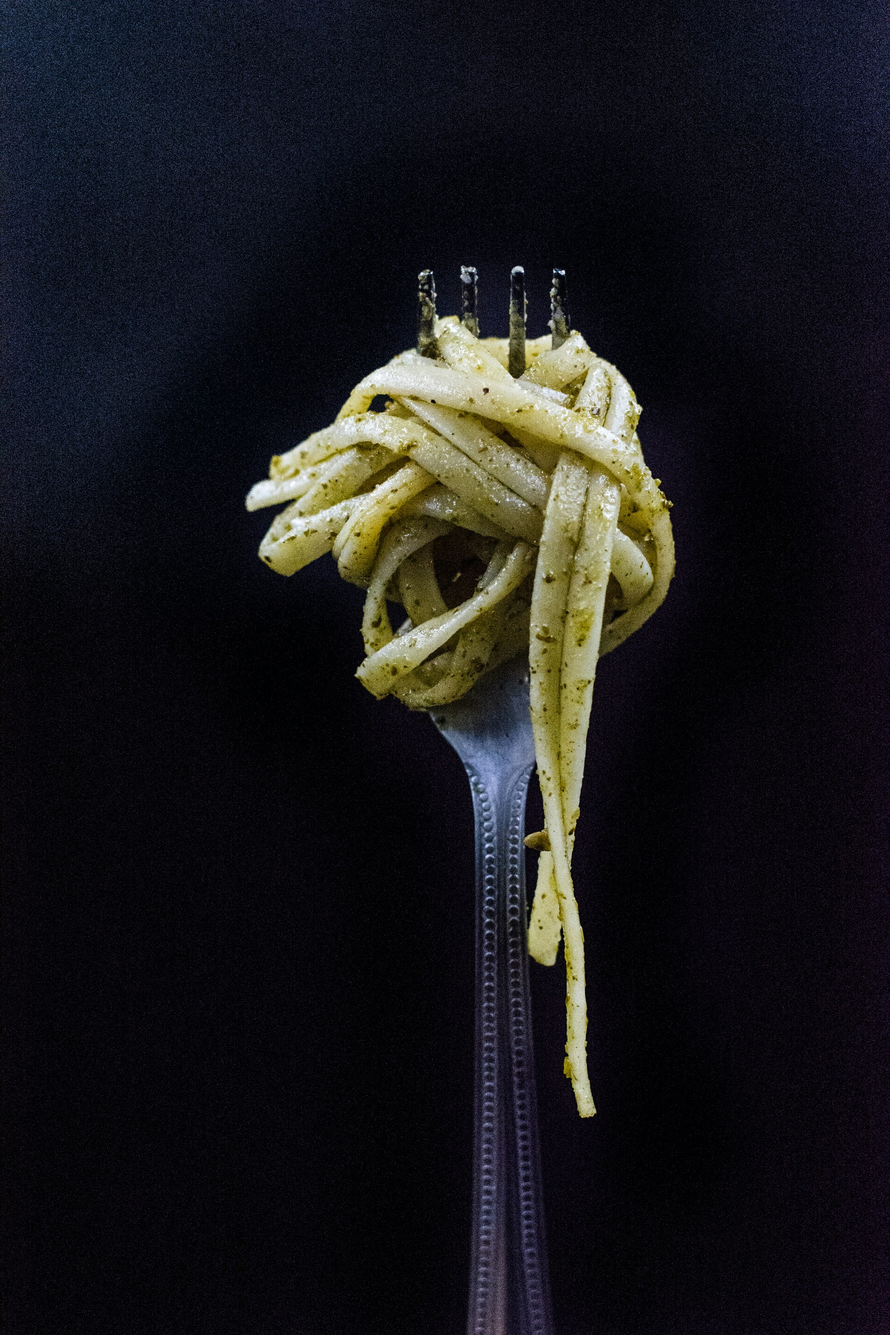
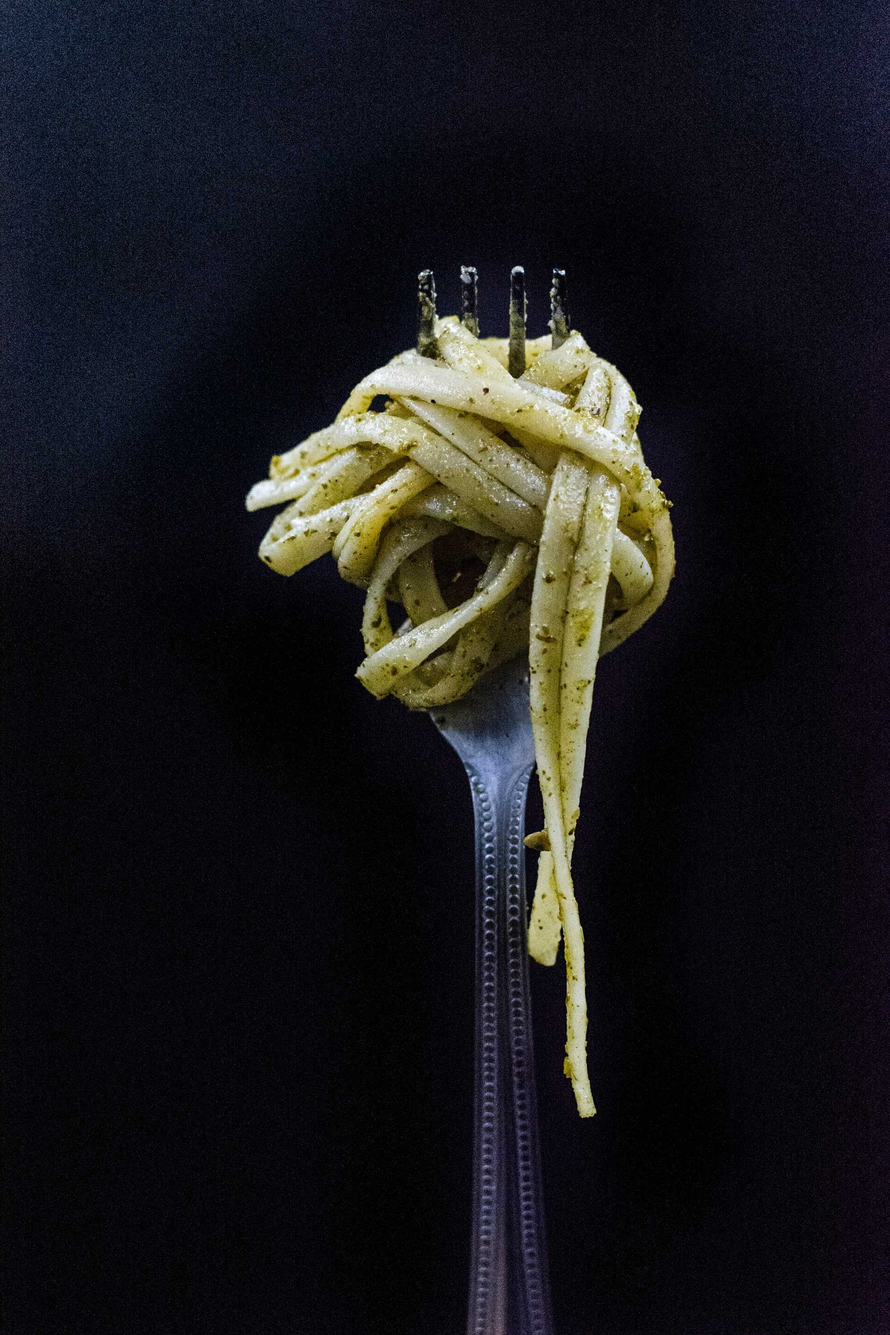
Downgrading INTERNET RECIPE image quality, adding to orkinisms, tappy standard time

Changed region(s): [[0.992, 0.0, 1.0, 0.062], [0.0, 0.0, 0.031, 0.062]]

diff --git a/src/app/projects/tappy-os/orkinisms/data/orkinisms.ts b/src/app/projects/tappy-os/orkinisms/data/orkinisms.ts
@@ -38,7 +38,65 @@ export const orkinisms: Orkinism[] = [
         '[took-A-look]',
         'How Chloe refers to one of the clan (can be any of the siblings).'
     ),
+    new Orkinism(
+        'shinkalink',
+        'noun',
+        '[]',
+        ''
+    ),
+    new Orkinism(
+        'doodle',
+        'noun',
+        '[]',
+        ''
+    ),
+    new Orkinism(
+        'niggie',
+        'noun',
+        '[]',
+        ''
+    ),
+    new Orkinism(
+        'tooksie',
+        'noun',
+        '[]',
+        'Used interghangeably with \'tookie\''
+    ),
+    new Orkinism(
+        'puggles',
+        'noun',
+        '[]',
+        'The pug.'
+    ),
+    new Orkinism(
+        '',
+        'noun',
+        '[]',
+        ''
+    ),
+    new Orkinism(
+        'rookie',
+        'noun',
+        '[]',
+        'A misspelling of tookie/wookie. Also a televsion show.'
+    ),
+    new Orkinism(
+        '👍🏼',
+        'noun',
+        '[]',
+        'Hilton\'s standard emoji response, for the affirmative.'
+    ),
+    new Orkinism(
+        '🖕🏼',
+        'noun',
+        '[]',
+        'Hilton\'s standard emoji response, for the defensive.'
+    ),
 ];
 
 
-//noonkie, tookalook, twinkie, master jack
+// See you on the Christmas tree
+// Shinkies
+// Shinkalink
+// Shinks
+// Drama llama

diff --git a/src/app/projects/tappy-os/orkinisms/orkinisms.component.html b/src/app/projects/tappy-os/orkinisms/orkinisms.component.html
@@ -11,8 +11,8 @@
     </div>
     <br>
     <div class="row">
-      <div class="col-md-3"></div>
-      <div class="col-md-6">
+      <div class="col-md-1"></div>
+      <div class="col-md-10">
         <form>
           <div class="input-group mb-3">
             <input class="form-control form-control-lg" type="text" placeholder="Search Orkinisms..."
@@ -21,14 +21,13 @@
           </div>
           <div class="results">
             @for (orkinism of filteredOrkinismList; track $index) {
-            <p><b>{{ orkinism.word }}</b> | {{ orkinism.type }} | {{ orkinism.phonetic }}</p>
-            <p>{{ orkinism.definition }}</p>
+            <p><b>{{ orkinism.word }}</b> | {{ orkinism.type }} | {{ orkinism.phonetic }} | {{ orkinism.definition }}</p>
             }
           </div>
         </form>
 
       </div>
-      <div class="col-md-3"></div>
+      <div class="col-md-1"></div>
     </div>
     <br><br>
   </div>

diff --git a/src/app/projects/tappy-os/orkinisms/orkinisms.component.ts b/src/app/projects/tappy-os/orkinisms/orkinisms.component.ts
@@ -1,6 +1,7 @@
 import { Component } from '@angular/core';
 import { Orkinism } from './classes/orkinism';
 import { orkinisms } from './data/orkinisms';
+import { sortObjectArray } from '../../../shared/libs/common';
 
 @Component({
   selector: 'app-orkinisms',
@@ -15,7 +16,7 @@ export class OrkinismsComponent {
   filteredOrkinismList: Orkinism[] = [];
 
   constructor() {
-    this.orkinismList = orkinisms
+    this.orkinismList = sortObjectArray(orkinisms, 'word');
     this.filteredOrkinismList = this.orkinismList;
   }
 
@@ -24,9 +25,11 @@ export class OrkinismsComponent {
       this.filteredOrkinismList = this.orkinismList;
       return;
     }
-    this.filteredOrkinismList = this.orkinismList.filter((orkinism) =>
+    this.filteredOrkinismList = sortObjectArray(this.orkinismList.filter((orkinism) =>
       orkinism.word.includes(text.toLowerCase()),
-    );
+    ), "word");
   }
+
+
 
 }

diff --git a/src/assets/custom-js/tappy-standard-time.js b/src/assets/custom-js/tappy-standard-time.js
@@ -55,6 +55,12 @@ const reasons =
   'she was making Matt use mouthwash in a way that looked suspiciously like water-boarding',
   'she bolted her acai bowl and was feeling sick',
   'she got a cosmelan peel',
+  'she was trying to decide between Nikes and Sambas.',
+  'she was stressing about her costume choice.',
+  'she decided it was suddnely time to shave her legs even or wash her hair.',
+  'she decided it was suddenly a great time to clean the second wardrobe (it should be noted that she has had ample time to clean it over the last 6 months).',
+  'she was stewing over one or more of the DAWGS.',
+  'she decided to rearrange the furniture for the entire house.'
 ];
 
 function start() {

diff --git a/src/app/shared/libs/common.ts b/src/app/shared/libs/common.ts
@@ -2,3 +2,21 @@
 export function getRandomEntry(array: any[]) {
     return array[Math.floor(Math.random() * array.length)];
 }
+
+export function sortObjectArray<T>(
+  array: T[],
+  sortField: keyof T
+): T[] {
+  return array.sort((a, b) => {
+    const aVal = a[sortField];
+    const bVal = b[sortField];
+
+    if (typeof aVal === 'string' && typeof bVal === 'string') {
+      return aVal.localeCompare(bVal);
+    }
+    if (typeof aVal === 'number' && typeof bVal === 'number') {
+      return aVal - bVal;
+    }
+    return 0;
+  });
+}

diff --git a/src/app/projects/projects.component.html b/src/app/projects/projects.component.html
@@ -139,7 +139,7 @@
                     <p>JUST YOUR AVERAGE INTERNET RECIPE ©</p>
                     <img class="tag-icon" src="/assets/images/icons/angular-icon.svg">
                     <img class="tag-icon" src="/assets/images/icons/bootstrap-icon.svg">
-                    <p class="tag-size">?</p>
+                    <p class="tag-size"><b>Up to 10 MB</b></p>
                 </a>
             </div>
 
